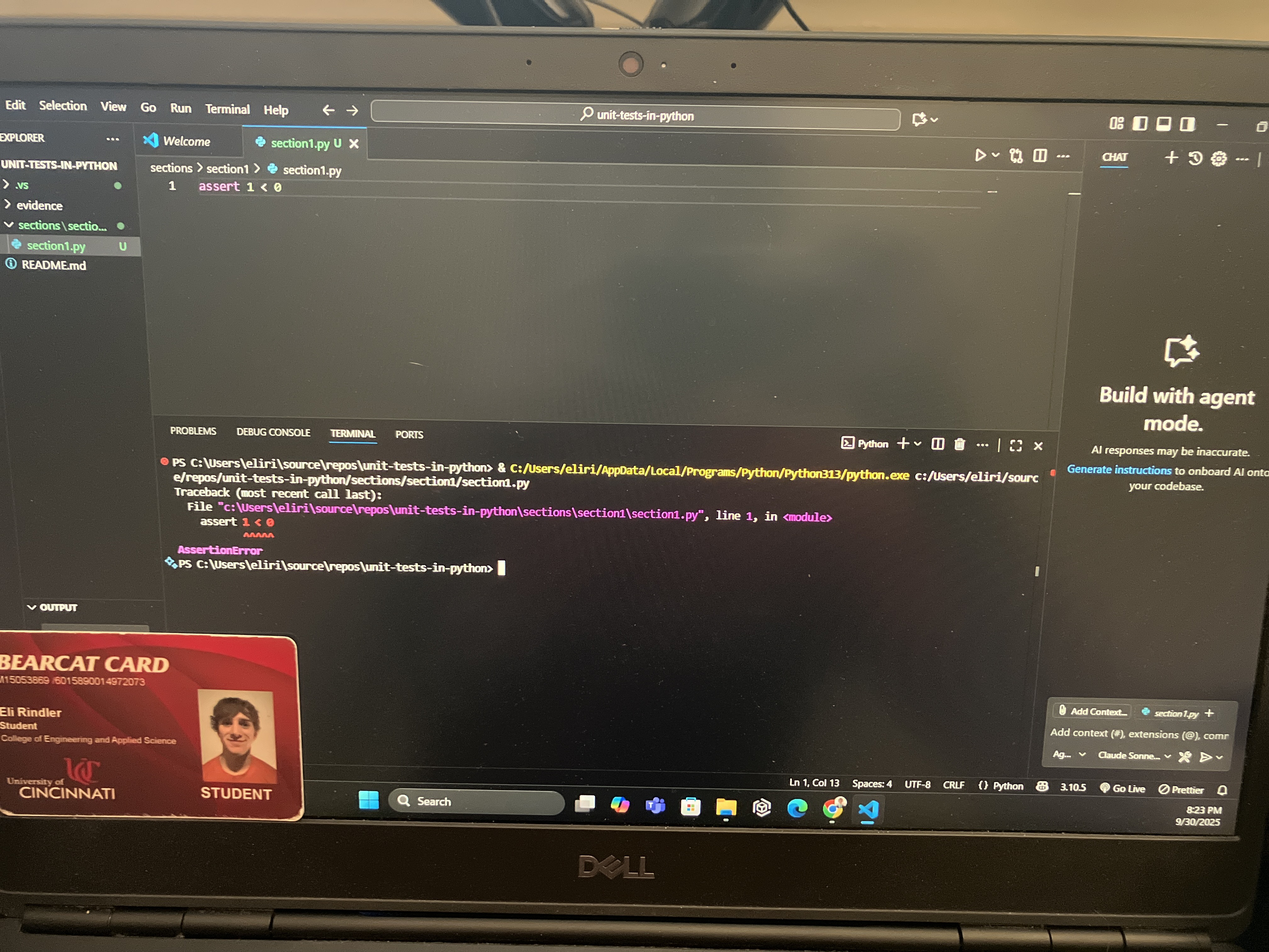
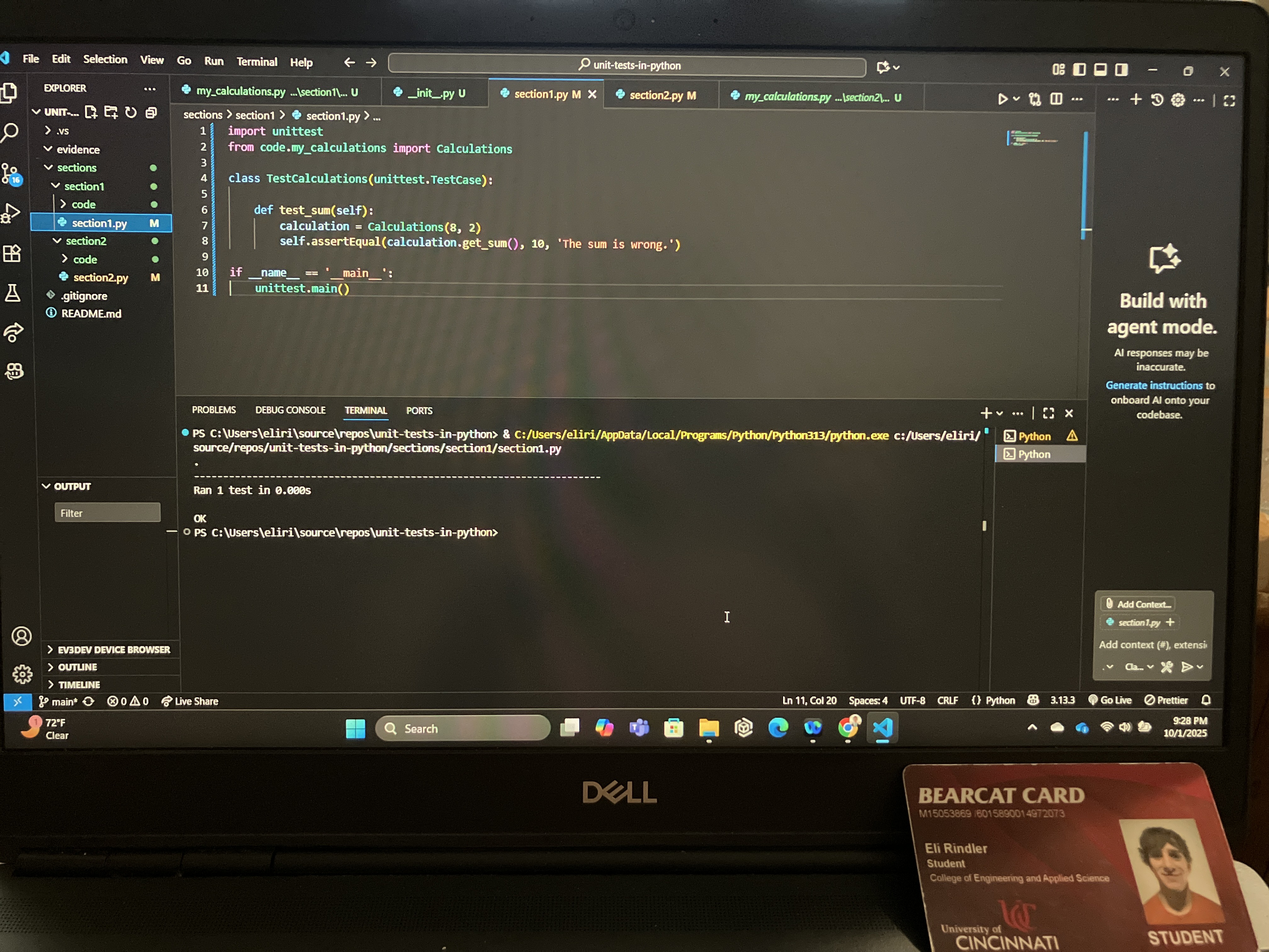
Refactor calculations and tests: add my_calculations.py, update section1 and section2 tests, remove unused section3 and section4 files

diff --git a/sections/section2/section2.py b/sections/section2/section2.py
@@ -1,2 +1,11 @@
-n = 0
-assert 1 < n, 'The Condition is False'
+import unittest
+from code.my_calculations import Calculations
+
+class TestCalculations(unittest.TestCase):
+
+    def test_sum(self):
+        calculation = Calculations(8, 2)
+        self.assertEqual(calculation.get_sum(), 11, 'The sum is wrong.')
+
+if __name__ == '__main__':
+    unittest.main()

diff --git a/sections/section1/section1.py b/sections/section1/section1.py
@@ -1,1 +1,11 @@
-assert 1 < 0
+import unittest
+from code.my_calculations import Calculations
+
+class TestCalculations(unittest.TestCase):
+
+    def test_sum(self):
+        calculation = Calculations(8, 2)
+        self.assertEqual(calculation.get_sum(), 10, 'The sum is wrong.')
+
+if __name__ == '__main__':
+    unittest.main()
